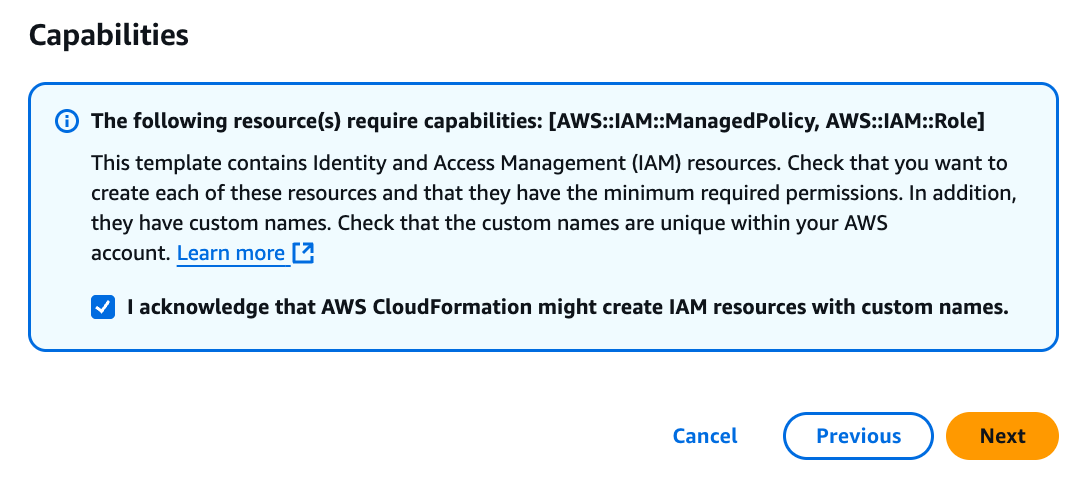
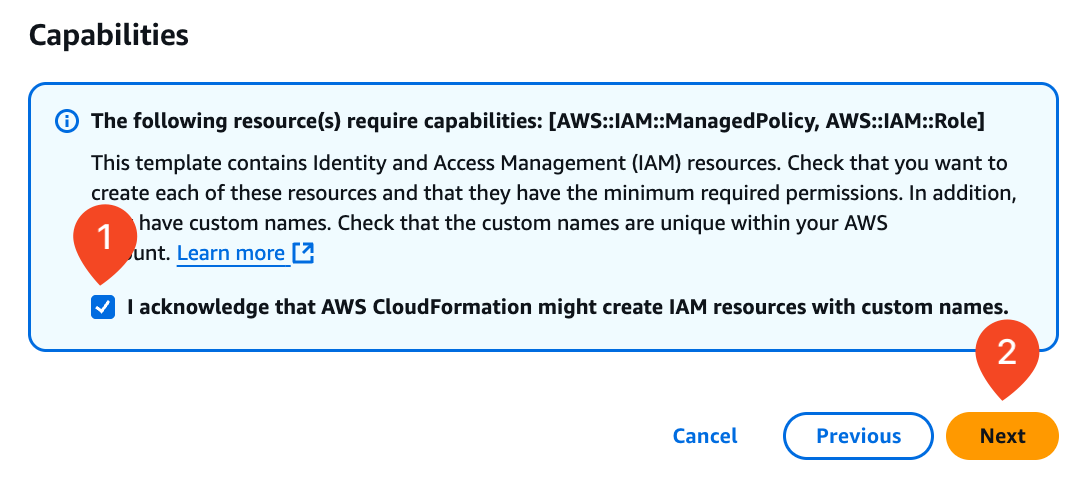
tweak text and images for 02_03

Changed region(s): [[0.8845, 0.6508, 0.976, 0.8368], [0.061, 0.4029, 0.1525, 0.5888]]

diff --git a/ch2_using_pipes_in_pipelines/02_03_set_up_the_aws_environment/README.md b/ch2_using_pipes_in_pipelines/02_03_set_up_the_aws_environment/README.md
@@ -14,13 +14,11 @@ Having the following items in place before starting this lab will help you have 
 
 ## Deploy the CloudFormation Template
 
-1. Log into your AWS account.  Access the CloudFormation homepage and select **Create Stack**.
+1. Log into your AWS account.  Access the CloudFormation homepage and select **Create stack**.
 
     ![create stack](./images/01-create-stack.png)
 
-1. On the create stack screen, select **Upload a Template File** and then  select **Choose file**.
-
-    ![](./images/02-upload-template.png)
+1. On the create stack screen, select **Upload a template file** and then  select **Choose file**.
 
     Using your system's file finder, browse to the location where the CloudFormation template is located.
 
@@ -28,29 +26,31 @@ Having the following items in place before starting this lab will help you have 
 
     Select **Next**.
 
-1. On the "Specify Stack Details" screen, enter a stack name.  Select **Next**.
+    ![upload template](./images/02-upload-template.png)
 
-    ![](./images/03-enter-stack-name.png)
+1. On the "**Specify stack details**" screen, **enter a stack name**.  Select **Next**.
 
-1. On the "Stack Options" screen, scroll down to the very bottom.
+    ![enter stack name](./images/03-enter-stack-name.png)
+
+1. On the "**Stack options**" screen, scroll down to the very bottom.
 
     Acknowledge that AWS CloudFormation might create IAM resources with custom names, and then select **Next**.
 
-    ![](./images/04-acknowledge-iam-resources.png)
+    ![acknowledge IAM resources](./images/04-acknowledge-iam-resources.png)
 
-1. On the "Review and Create" screen, scroll down to the bottom and select Submit.
+1. On the "Review and create" screen, scroll down to the bottom and select **Submit**.
 
-    ![](./images/05-submit.png)
+    ![submit](./images/05-submit.png)
 
 1. Selecting submit starts the stack creation process.
 
-    ![](./images/06-create-in-progress.png)
+    ![create in progress](./images/06-create-in-progress.png)
 
     Wait 2-3 minutes for the stack deployment to complete.
 
-    ![](./images/07-create-complete.png)
+    ![create complete](./images/07-create-complete.png)
 
-1. After the creation is complete, **Outputs** tab to see the values for:
+1. After the creation is complete, select the **Outputs** tab to see the values for:
 
     - AwsAccessKeyId
     - AwsDefaultRegion
@@ -60,16 +60,16 @@ Having the following items in place before starting this lab will help you have 
     - StagingFunctionName
     - StagingURL
 
-    > [!Warning]
+    > [!WARNING]
     > The values for `AwsAccessKeyId` and `AwsSecretAccessKey` are sensitive.  Treat them as your would a username and password.  Do not store them in publicly available repositories, files, or documents.
 
-    ![](./images/08-outputs.png)
+    ![outputs](./images/08-outputs.png)
 
 1. To validate the deployment, open the links for the **ProductionURL** and **StagingURL**.
 
-    ![](./images/09-production-url.png)
+    ![production url](./images/09-production-url.png)
 
-    ![](./images/10-staging-url.png)
+    ![staging url](./images/10-staging-url.png)
 
 <!-- FooterStart -->
 ---
